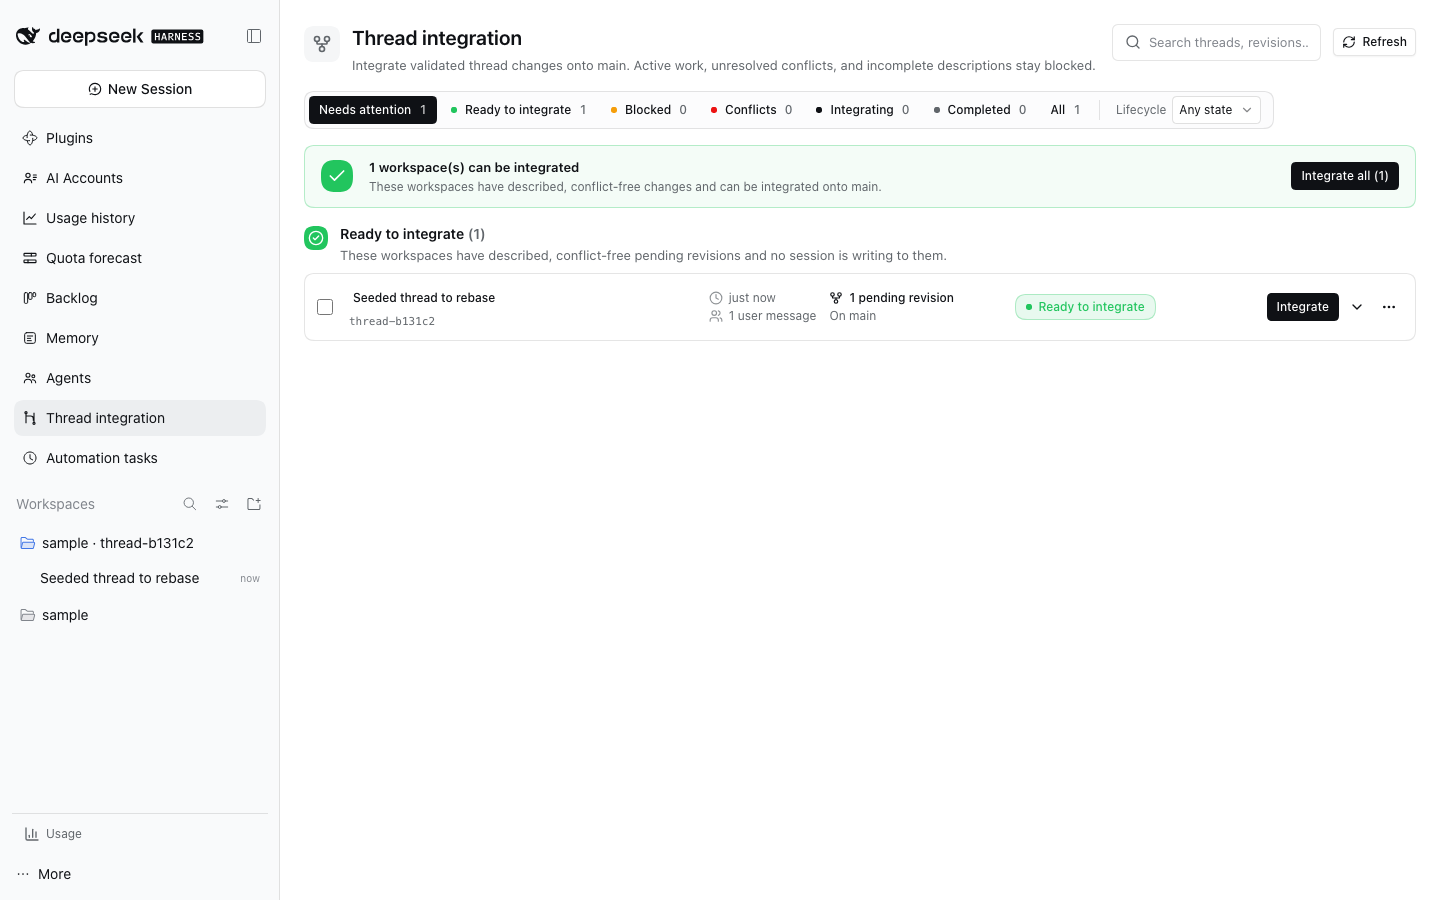
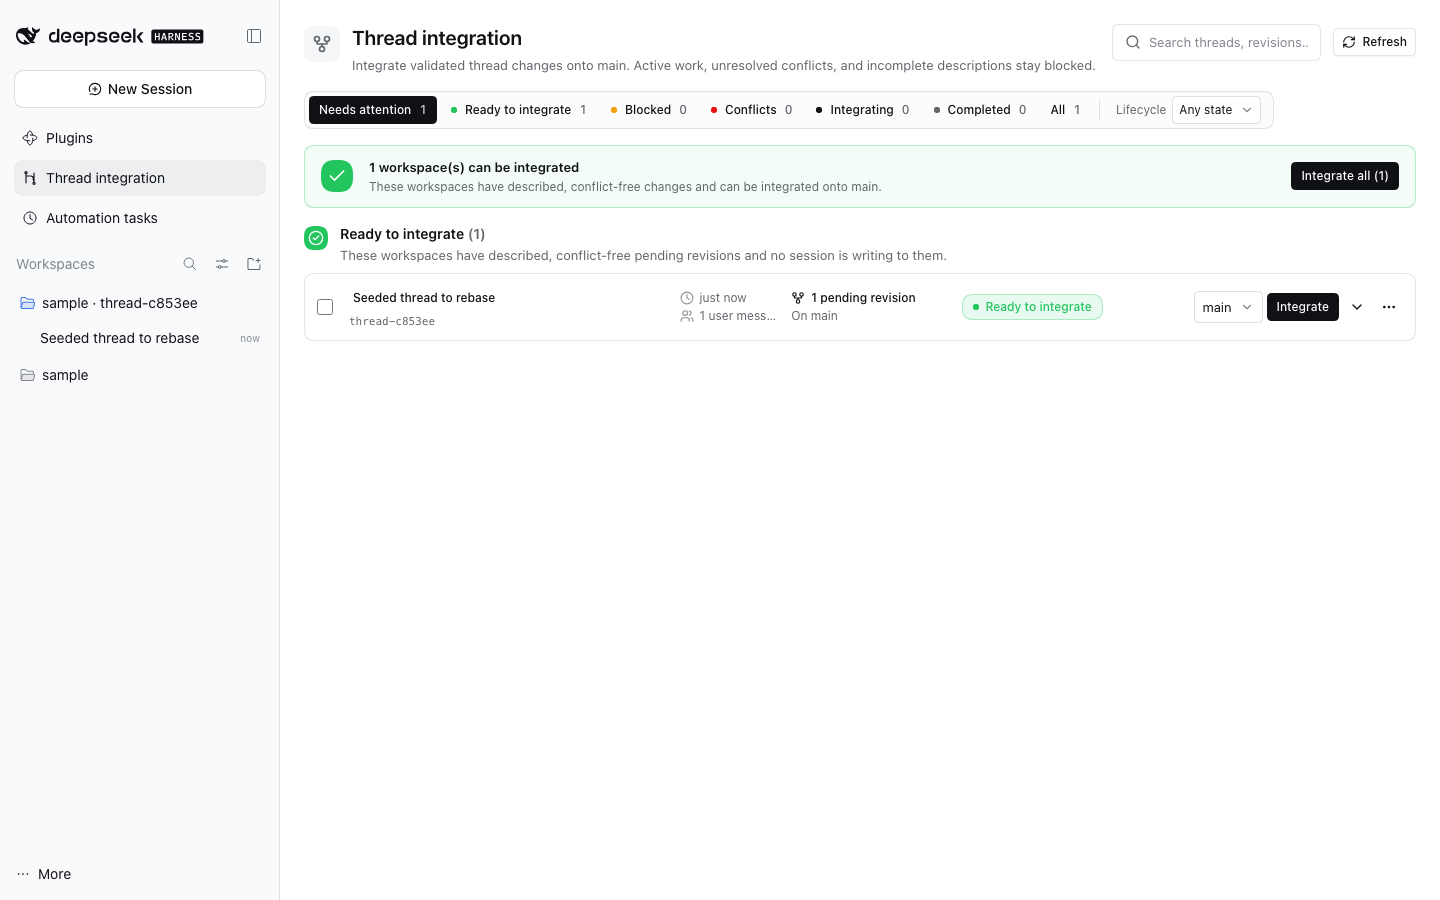
feat(jj-integration): select per-thread integration bookmark
Let each ready workspace target a local bookmark from the integration panel, so work can land on a long-lived branch without changing the configured default. Keep bulk integration and the default target behavior unchanged.

diff --git a/plugins/@dshfiles/jj-integration/src/panel.tsx b/plugins/@dshfiles/jj-integration/src/panel.tsx
@@ -366,13 +366,14 @@ const ThreadRow = (props: {
   readonly openSession: (sessionId: SessionSummary['id']) => void
   readonly t: JjIntegrationTranslate
   readonly bookmark: string
+  readonly bookmarks: readonly string[]
   readonly selected: boolean
   readonly selectable: boolean
   readonly job: IntegrationJob | undefined
   readonly busy: boolean
   readonly now: number
   readonly onSelect: () => void
-  readonly onIntegrate: () => void
+  readonly onIntegrate: (bookmark: string) => void
   readonly onDiscard: () => void
 }): JSX.Element => {
   const { thread, t, assessment } = props
@@ -380,6 +381,7 @@ const ThreadRow = (props: {
   const [expanded, setExpanded] = useState(false)
   const [previewOpen, setPreviewOpen] = useState(false)
   const [copied, setCopied] = useState(false)
+  const [integrationBookmark, setIntegrationBookmark] = useState(props.bookmark)
   const previewId = useId()
   useEffect(() => {
     if (!props.hostEligibilityStale) return
@@ -610,12 +612,21 @@ const ThreadRow = (props: {
           onClick={event => event.stopPropagation()}
         >
           {assessment.category === 'ready' ? (
-            <Button size="sm" disabled={props.busy || props.job !== undefined} onClick={props.onIntegrate}>
-              {t('integrate')}
-            </Button>
+            <>
+              <Combobox
+                label={t('integrationTarget')}
+                matchTriggerWidth
+                options={[...new Set([...props.bookmarks, props.bookmark])].map(bookmark => ({ value: bookmark, label: bookmark }))}
+                value={integrationBookmark}
+                onValueChange={setIntegrationBookmark}
+              />
+              <Button size="sm" disabled={props.busy || props.job !== undefined} onClick={() => props.onIntegrate(integrationBookmark)}>
+                {t('integrate')}
+              </Button>
+            </>
           ) : null}
           {props.job?.phase === 'failed' ? (
-            <Button size="sm" variant="outline" disabled={props.busy} onClick={props.onIntegrate}>
+            <Button size="sm" variant="outline" disabled={props.busy} onClick={() => props.onIntegrate(integrationBookmark)}>
               {t('retryIntegration')}
             </Button>
           ) : null}
@@ -805,8 +816,12 @@ export const ThreadWorkspacesPanel = (props: {
   }
   const rebase = useMutation({
     mutationKey: threadRebaseMutationKey,
-    mutationFn: (input: { readonly path: string; readonly signal: AbortSignal }) =>
-      runHostRequest({ signal: input.signal, timeoutMs: 300_000, request: signal => api.land({ path: input.path }, { signal }) }),
+    mutationFn: (input: { readonly path: string; readonly signal: AbortSignal; readonly bookmark?: string }) =>
+      runHostRequest({
+        signal: input.signal,
+        timeoutMs: 300_000,
+        request: signal => api.land(input.bookmark === undefined ? { path: input.path } : { path: input.path, bookmark: input.bookmark }, { signal }),
+      }),
     onSuccess: async (result, input) => {
       if (result.status === 'landed') {
         await queryClient.cancelQueries({ queryKey: threadQueryKeys.repositories })
@@ -1296,13 +1311,14 @@ export const ThreadWorkspacesPanel = (props: {
                                 openSession={props.openSession}
                                 t={t}
                                 bookmark={props.bookmark}
+                                bookmarks={repository.bookmarks}
                                 selected={selectedPaths.has(entry.thread.path)}
                                 selectable={entry.assessment.category === 'ready'}
                                 job={integrationJobs.get(entry.thread.path)}
                                 busy={queueBusy || rebasesPending}
                                 now={now}
                                 onSelect={() => toggleSelectedPath(entry.thread.path)}
-                                onIntegrate={() => startIntegration([entry.thread.path])}
+                                onIntegrate={bookmark => rebase.mutate({ path: entry.thread.path, bookmark, signal: new AbortController().signal })}
                                 onDiscard={() =>
                                   discard.request({ path: entry.thread.path, name: entry.thread.name, unlandedCount: entry.thread.unlanded.length })
                                 }

diff --git a/plugins/@dshfiles/jj-integration/src/host.ts b/plugins/@dshfiles/jj-integration/src/host.ts
@@ -482,15 +482,19 @@ const scanRepositories = async (): Promise<readonly RepositoryView[]> => {
   const locations = await mapBounded(present, LOCATE_CONCURRENCY, workspace => cachedBestEffortLocation(active, workspace.path))
   const repoRoots = [...new Set(locations.flatMap(location => (location === undefined ? [] : [location.repoRoot])))]
   const statusesByRepo = await mapBounded(repoRoots, REPOSITORY_SCAN_CONCURRENCY, repoRoot => cachedThreadStatuses(active, repoRoot))
-  return repoRoots.map((repoRoot, index) => {
-    const owner = byPath.get(repoRoot)
-    return {
-      repoRoot,
-      title: owner?.title ?? basename(repoRoot),
-      workspaceId: owner?.id ?? null,
-      threads: (statusesByRepo[index] ?? []).map(status => threadView(status, byPath.get(status.path), archived, activity)),
-    }
-  })
+  return Promise.all(
+    repoRoots.map(async (repoRoot, index) => {
+      const owner = byPath.get(repoRoot)
+      const bookmarks = await active.bookmarks(repoRoot)
+      return {
+        repoRoot,
+        title: owner?.title ?? basename(repoRoot),
+        workspaceId: owner?.id ?? null,
+        bookmarks: [...bookmarks.names],
+        threads: (statusesByRepo[index] ?? []).map(status => threadView(status, byPath.get(status.path), archived, activity)),
+      }
+    }),
+  )
 }
 
 const repositoryViewsCache = createRepositoryViewsCache({ read: scanRepositories, ttlMs: REPOSITORY_VIEW_TTL_MS })
@@ -726,12 +730,13 @@ const landThread = async (input: {
   readonly path: string
   readonly sessionId: string | undefined
   readonly fromAgent: boolean
+  readonly bookmark?: string | undefined
   readonly signal?: AbortSignal
   /** A queued integration's last chance to be cancelled: read once the guard passed, right before the rebase. */
   readonly stillQueued?: () => boolean
 }): Promise<LandResult> => {
   recordIntegrationProgress(input.path, 'queued')
-  const bookmark = readSettings().bookmark
+  const bookmark = input.bookmark ?? readSettings().bookmark
   const correlationId = randomUUID()
   const activeThreads = requireThreads()
   const location = await activeThreads.locate(input.path)
@@ -751,6 +756,11 @@ const landThread = async (input: {
       // the deferred retry run it once the Host can read idleness. An Agent's own call still reports why it stopped.
       if (!IntegrationRecovery.queuesInsteadOfRefusing({ fromAgent: input.fromAgent, retrying: input.stillQueued !== undefined })) {
         throw new PluginApiError('Could not verify whether this workspace is idle. Refresh and retry integration.', { code: 'thread-activity-unknown' })
+      }
+      if (input.bookmark !== undefined) {
+        throw new PluginApiError('Could not verify whether this workspace is idle. The selected bookmark was not queued; refresh and retry.', {
+          code: 'thread-activity-unknown',
+        })
       }
       await queueIntegration({ path: input.path, sessionId: input.sessionId })
       throw new PluginApiError('This workspace is not verifiably idle yet; the integration is queued.', { code: 'integration-queued' })
@@ -1470,7 +1480,7 @@ const api = jjIntegrationApi.host({
     return { thread: found?.thread ?? null }
   },
   revisionGraph: async ({ input }) => ({ graph: await requireThreads().revisionGraph(input.path) }),
-  land: ({ input }) => landThread({ path: input.path, sessionId: input.sessionId, fromAgent: false }),
+  land: ({ input }) => landThread({ path: input.path, sessionId: input.sessionId, fromAgent: false, bookmark: input.bookmark }),
   queueLand: ({ input }) => queueIntegration({ path: input.path, sessionId: input.sessionId }),
   cancelQueuedLand: ({ input }) => cancelQueuedIntegration(input.path),
   integrationProgress: ({ input }) => ({ progress: readIntegrationProgress(input.path) }),
@@ -1489,6 +1499,7 @@ const api = jjIntegrationApi.host({
       path: location.workspaceRoot,
       sessionId: caller.kind === 'agent' ? caller.sessionId : undefined,
       fromAgent: caller.kind === 'agent',
+      bookmark: input.bookmark,
     })
     return { summary: landingMessage(result) ?? JSON.stringify(result), result }
   },

diff --git a/plugins/@dshfiles/jj-integration/src/api-tools.test.ts b/plugins/@dshfiles/jj-integration/src/api-tools.test.ts
@@ -44,6 +44,12 @@ describe('jj-integration tool exposure', () => {
     const output = jjIntegrationApi.methods.repositories.output
     if (output === undefined) throw new Error('repositories must declare an output schema')
     expect('issues' in (await output['~standard'].validate({ repositories: [] }))).toBe(false)
+    expect(
+      'issues' in
+        (await output['~standard'].validate({
+          repositories: [{ repoRoot: '/work/project', title: 'project', workspaceId: null, threads: [] }],
+        })),
+    ).toBe(false)
     expect('issues' in (await output['~standard'].validate({ repositories: [], refreshing: true, refreshFailed: false }))).toBe(false)
     expect('issues' in (await output['~standard'].validate({ repositories: [], refreshing: 'yes' }))).toBe(true)
 
@@ -74,6 +80,25 @@ describe('jj-integration tool exposure', () => {
     expect(
       'issues' in (await validate({ paths: Array.from({ length: 101 }, (_, index) => `/work/thread-${String(index)}`), force: false, confirm: true })),
     ).toBe(true)
+  })
+
+  test('manual integration accepts an optional non-empty bookmark target', async () => {
+    const schema = jjIntegrationApi.methods.land.input
+    if (schema === undefined) throw new Error('land must declare an input schema')
+    const validate = async (value: { readonly path: string; readonly bookmark?: string }) => await schema['~standard'].validate(value)
+
+    expect('issues' in (await validate({ path: '/work/thread-abc123' }))).toBe(false)
+    expect('issues' in (await validate({ path: '/work/thread-abc123', bookmark: 'release/next' }))).toBe(false)
+    expect('issues' in (await validate({ path: '/work/thread-abc123', bookmark: '' }))).toBe(true)
+  })
+
+  test('agent rebase tool accepts an optional bookmark override', async () => {
+    const schema = jjIntegrationApi.methods.landThread.input
+    if (schema === undefined) throw new Error('landThread must declare an input schema')
+
+    expect('issues' in (await schema['~standard'].validate({}))).toBe(false)
+    expect('issues' in (await schema['~standard'].validate({ bookmark: 'release/next' }))).toBe(false)
+    expect('issues' in (await schema['~standard'].validate({ bookmark: '' }))).toBe(true)
   })
 
   test('threadAt carries the reading Session and stays open to a Host that predates it', async () => {

diff --git a/plugins/@dshfiles/jj-integration/src/api.ts b/plugins/@dshfiles/jj-integration/src/api.ts
@@ -336,10 +336,10 @@ export const jjIntegrationApi = defineApi({
       },
     }),
     land: method({
-      input: z.object({ path: z.string().min(1), sessionId: z.string().optional() }).strict(),
+      input: z.object({ path: z.string().min(1), sessionId: z.string().optional(), bookmark: z.string().min(1).optional() }).strict(),
       output: landResultSchema,
       description:
-        'Rebase the thread at a path: move its described revisions onto the target bookmark and advance the bookmark. Never pushes. Refuses while any Session working in that jj workspace is running or waiting for input, and names them; the calling agent may rebase its own thread once it resolved a handed-back problem.',
+        'Rebase the thread at a path: move its described revisions onto the selected bookmark (the configured bookmark by default) and advance it. Never pushes. Refuses while any Session working in that jj workspace is running or waiting for input, and names them; the calling agent may rebase its own thread once it resolved a handed-back problem.',
     }),
     queueLand: method({
       input: z.object({ path: z.string().min(1), sessionId: z.string().optional() }).strict(),
@@ -372,7 +372,7 @@ export const jjIntegrationApi = defineApi({
       },
     }),
     landThread: method({
-      input: threadPathInput,
+      input: threadPathInput.extend({ bookmark: z.string().min(1).optional() }),
       output: z.object({ summary: z.string(), result: landResultSchema.nullable() }).strict(),
       description:
         'Integrate this thread’s described work into the target bookmark (main by default): rebase the thread revisions onto the current bookmark tip, then advance the bookmark to the new tip. Existing bookmark ancestry stays intact; nothing is pushed. An agent calling it for its own thread is exempt from its own running session, while every other thread session must be idle and free of pending questions. It refuses undescribed revisions and reports conflicts. Call only when the user asked to integrate this thread’s work.',

diff --git a/plugins/@dshfiles/jj-integration/src/threads.integration.test.ts b/plugins/@dshfiles/jj-integration/src/threads.integration.test.ts
@@ -768,6 +768,22 @@ describe.skipIf(!jjAvailable)('thread workspaces against real jj', () => {
     expect((await reloaded.list(repo))[0]?.rebasedTipChangeId).toBe(tipChangeId)
   })
 
+  it('lands work onto an explicitly selected bookmark without moving main', async () => {
+    const thread = await threads.provision(repo)
+    const mainBefore = jj(repo, '--ignore-working-copy', 'log', '--no-graph', '-r', 'main', '-T', 'commit_id')
+    jj(repo, 'bookmark', 'create', 'work/target', '-r', 'main')
+    writeFileSync(join(thread.path, 'feature.txt'), 'feature\n')
+    jj(thread.path, 'describe', '-m', 'feat: add feature')
+
+    const location = await threads.locate(thread.path)
+    if (location.threadName === undefined) throw new Error('Expected a thread workspace.')
+    const outcome = await threads.landAt({ ...location, threadName: location.threadName }, { bookmark: 'work/target' })
+
+    expect(outcome.status).toBe('landed')
+    expect(jj(repo, '--ignore-working-copy', 'log', '--no-graph', '-r', 'work/target', '-T', 'description.first_line()')).toBe('feat: add feature')
+    expect(jj(repo, '--ignore-working-copy', 'log', '--no-graph', '-r', 'main', '-T', 'commit_id')).toBe(mainBefore)
+  })
+
   it('syncs the default checkout to the exact landed commit even if the bookmark advances later', async () => {
     writeFileSync(join(repo, '.secret.json'), 'local\n')
     const thread = await threads.provision(repo)

diff --git a/plugins/@dshfiles/jj-integration/src/locales.ts b/plugins/@dshfiles/jj-integration/src/locales.ts
@@ -22,6 +22,7 @@ const en = {
   clearSelection: 'Clear selection',
   integrateSelected: 'Integrate selected ({count})',
   integrate: 'Integrate',
+  integrationTarget: 'Integrate onto',
   retryIntegration: 'Retry',
   integrationQueued: 'Queued',
   integrationInProgress: 'Integrating…',
@@ -268,6 +269,7 @@ const zh = {
   clearSelection: '清除选择',
   integrateSelected: '集成所选项（{count}）',
   integrate: '集成',
+  integrationTarget: '集成到',
   retryIntegration: '重试',
   integrationQueued: '已排队',
   integrationInProgress: '正在集成…',

diff --git a/plugins/@dshfiles/multi-host/src/api.ts b/plugins/@dshfiles/multi-host/src/api.ts
@@ -258,6 +258,7 @@ export const jjRepositorySchema = z
     repoRoot: z.string().max(4096),
     title: z.string().max(512),
     workspaceId: z.string().nullable(),
+    bookmarks: z.array(z.string().max(512)).max(10_000).default([]),
     threads: z.array(jjThreadSchema).max(10_000),
   })
   .strip()

diff --git a/plugins/@dshfiles/jj-integration/README.md b/plugins/@dshfiles/jj-integration/README.md
@@ -8,8 +8,10 @@
 
 Lets many agents work on one jj repository at once: a thread can run in its own
 jj workspace beside the repository, and **Integrate** moves its finished work
-into `main`. Internally, jj rebases the thread revisions onto current `main`,
-then advances the bookmark to the new tip; existing `main` ancestry stays intact.
+into `main` by default. The integration page lets each ready workspace choose
+another local bookmark before integrating. Internally, jj rebases the thread
+revisions onto that bookmark's current tip, then advances it; existing ancestry
+stays intact.
 Works on stock DSH 0.2.0-rc.2; no core patch.
 
 Open the reusable **JJ Integration: Thread integration** view from navigation or the Workbench chooser.
@@ -104,7 +106,7 @@ One control in the conversation header carries the workspace state:
   cannot lose the only way to the thread's workspace actions.
 - Its menu shows the workspace path, what the workspace state is (ready to
   integrate, up to date, behind `main`, conflicted, shared checkout, or blocked),
-  **Integrate into `main`**, **Open thread workspaces in side panel**, and
+  **Integrate into the configured bookmark** (main by default), **Open thread workspaces in side panel**, and
   **Download session log**.
 - While a session is running or a question waits, **Integrate** becomes
   **Queue integration into `main`**: the Host keeps the request and runs the
@@ -123,10 +125,10 @@ One control in the conversation header carries the workspace state:
 
 ### Integrate from the end of a turn
 
-The newest completed turn carries the same integration one click away: when the
+The newest completed turn carries the configured integration target one click away: when the
 turn ends and the thread workspace is ready (described, conflict-free revisions,
 no Session writing, no question waiting), an inline row beside the answer names
-the pending revisions and offers **Integrate into `main`**. It runs the header
+the pending revisions and offers **Integrate into the configured bookmark**. It runs the header
 control's own land action; the header stays the permanent entry point, and the
 row disappears as soon as the work lands.
 
@@ -167,9 +169,11 @@ the conversation's right side panel, beside Jujutsu and other tools. The main ta
 dragged onto the open side panel moves there through the cancelable
 `dshfiles:move-panel-aside` request this entry answers; the side tab's menu row
 _Move to main area_ reverses it. It is the
-integration control center: a tab per integration state with live counts, a
-separate lifecycle filter, a banner with the primary **Integrate all (n)** action
-while work is ready, and one compact row per workspace grouped into
+integration control center: each ready workspace row has a bookmark combobox
+(defaulting to the configured bookmark, `main` by default) for its individual
+Integrate action. The banner's **Integrate all (n)** action uses the configured
+bookmark. The page also has a tab per integration state with live counts, a
+separate lifecycle filter, and compact rows grouped into
 **Conflicts**, **Ready to integrate**, **Blocked**, **Integrating** and
 **No changes or already integrated**. Empty groups are not rendered at all; their
 counts stay in the filter bar.
